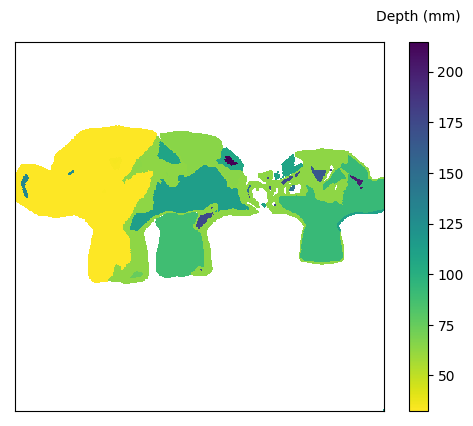
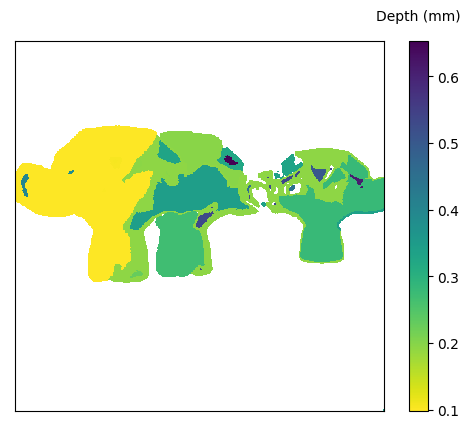
Changed to amp

diff --git a/PlenopticViewer/HDR.py b/PlenopticViewer/HDR.py
@@ -49,12 +49,12 @@ class HDRPage(tk.Frame):
         parPar.rowconfigure(4, weight=1)
         parPar.columnconfigure(0, weight=1)
 
-        label1 = tk.Label(parPar, text="Maximum Absorption (between 5 and 50)")
+        label1 = tk.Label(parPar, text="Maximum Transmission Amplitude (90-100)")
         label1.grid(row=0, column=0, padx=5, pady=5, sticky='n')
         self.sl1 = ttk.Scale(parPar, from_=5, to=50, orient=tk.HORIZONTAL)
         self.sl1.bind('<ButtonRelease>', self.update_absorb)
         self.sl1.grid(row=1, column=0, sticky='NSEW')
-        label2 = tk.Label(parPar, text="Minimum Absorption (between 0 and 10)")
+        label2 = tk.Label(parPar, text="Minimum Transmission Amplitude (70-90)")
         label2.grid(row=2, column=0)
         self.sl2 = ttk.Scale(parPar, from_=0, to=10, orient=tk.HORIZONTAL)
         self.sl2.bind('<ButtonRelease>', self.update_absorb)
@@ -179,11 +179,14 @@ def HDR_combine(inputImages, maxAbs=5, minAbs=1):
     exposure = np.zeros((size * size), dtype=np.float32)
 
     for i in range((size * size - 1), -1, -1):  # highest absorption= lowest brightness= lowest exposure
+        # windowName = 'input image' + str(i)
+        # cv.imshow(windowName,inputImages[i])
+        # cv.waitKey(0)
         absorption = i * ((maxAbs - minAbs) / (size * size)) + minAbs  # as absorption is linearly distributed
         exposure[i] = 1 / absorption
 
     # Merge images in to HDR image
-    mergeDebvec = cv.createMergeRobertson()
+    mergeDebvec = cv.createMergeDebevec()
     hdr = mergeDebvec.process(inputImages, times=exposure.copy())
 
     # Tonemap the HDR- using Reinhard's method to obtain 24-bit color image

diff --git a/PlenopticViewer/depth.py b/PlenopticViewer/depth.py
@@ -239,8 +239,8 @@ def read_images(name, mode='normal'):
 
         images = np.zeros((MMLsize, MMLsize, imageSize, imageSize, 3), dtype=np.uint8)
         # read images into an array
-        for i in range(0, MMLsize):
-            for j in range(0, MMLsize):
+        for j in range(0, MMLsize):
+            for i in range(0, MMLsize):
                 filename = directory + parallax.image_filename(groupname, j + 1, i + 1)
                 im = cv.imread(filename)
                 images[i, j] = im
